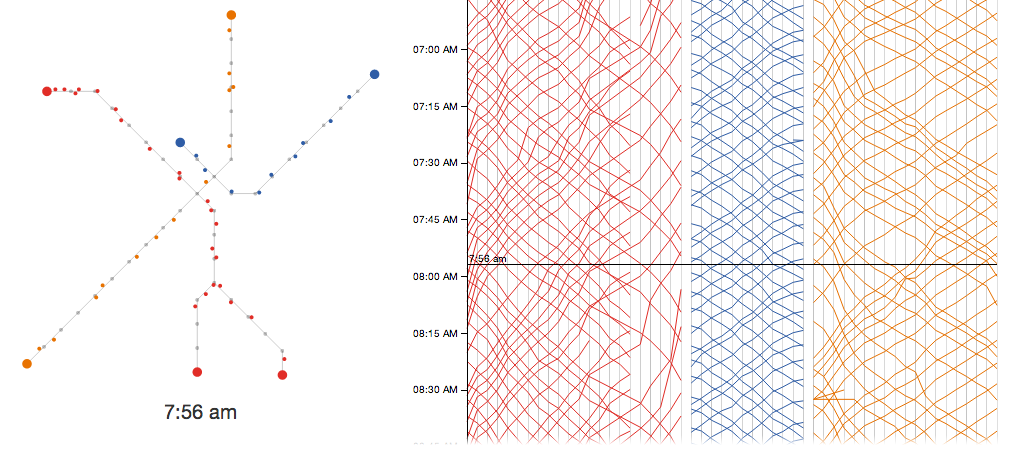
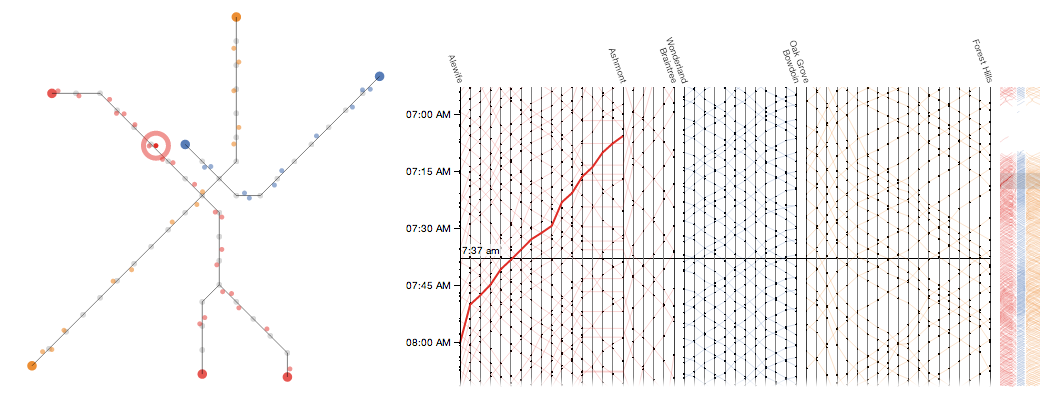
Built trains-over-time from commit 8974e43 on branch master

diff --git a/marey.js b/marey.js
@@ -19,6 +19,7 @@ window.drawMarey = function (stationNetwork, trips) {
       .attr('height', outerHeight)
     .append('g')
       .attr('transform', 'translate(' + margin.left + ', ' + margin.top + ')');
+  var svgBackground = svg.append("g");
   var tinySvg = d3.select('#tinymarey').append('svg')
       .attr('class', 'tiny')
       .attr('width', tinyOuterWidth)
@@ -69,10 +70,11 @@ window.drawMarey = function (stationNetwork, trips) {
     stationXScaleInvert[header[key][0]] = key;
   });
 
-  var stationLabels = headerSvg.selectAll('.station')
+  var stationLabels = headerSvg.selectAll('.station-label')
       .data(nodesPerLine)
       .enter()
     .append('text')
+      .attr('class', 'station-label')
       .style('display', function (d) { return end[d] ? null : 'none'; })
       .attr('transform', function (d) { return 'translate(' + (stationXScale(d) - 2) + ',' + (legendHeight - 3) + ')rotate(70)'; })
       .style('text-anchor', 'end')
@@ -155,27 +157,50 @@ window.drawMarey = function (stationNetwork, trips) {
     };
   }
 
+  window.highlightedTrip = null;
+  window.hoveredTrip = null;
+
+  window.highlightTrain = function (d) {
+    highlightedTrip = d.trip;
+    highlight();
+    d3.event.stopPropagation();
+  };
+
+  window.unHoverTrain = function () {
+    hoveredTrip = null;
+    hover();
+  };
+  window.hoverTrain = function (d) {
+    hoveredTrip = d.trip;
+    hover();
+  };
+
   svg.selectAll('.mareyline')
       .data(trips)
       .enter()
     .append('path')
-      .attr('class', function (d) { return 'mareyline ' + d.line; })
-      .attr('d', draw(xScale, yScale));
+      .attr('class', function (d) { return 'mareyline hoverable highlightable dimmable ' + d.line; })
+      .attr('d', draw(xScale, yScale))
+      .on('click', window.highlightTrain)
+      .on('mouseover', window.hoverTrain)
+      .on('mouseout', window.unHoverTrain);
+
+  d3.select('body').on('click.highlightoff', function () { highlightedTrip = null; highlight(); });
 
   tinySvg.selectAll('.mareyline')
       .data(trips)
       .enter()
     .append('path')
-      .attr('class', function (d) { return 'mareyline ' + d.line; })
+      .attr('class', function (d) { return 'mareyline highlightable ' + d.line; })
       .attr('d', draw(tinyxScale, tinyyScale));
 
   d3.select("#marey").on('mousemove', selectTime);
-  d3.select("#marey").on('mouesover', selectTime);
   d3.select("#marey").on('scroll', setScrollBox);
   d3.select("#marey").on('mousemove.titles', updateTitle);
   d3.select("#tinymarey").on('click', setScroll);
-  var bar = svg.append('g');
-  bar.append('line')
+  var barBackground = svgBackground.append('g').attr('class', 'g-bar');
+  var barForeground = svg.append('g').attr('class', 'g-bar');
+  barBackground.append('line')
       .attr('class', 'bar')
       .attr('x1', 1)
       .attr('x2', width)
@@ -188,18 +213,51 @@ window.drawMarey = function (stationNetwork, trips) {
       .attr('x2', width)
       .attr('y1', 0)
       .attr('y2', 0);
-  var timeDisplay = bar.append('text')
+  barForeground.append('rect')
+    .attr('class', 'text-background')
+    .attr('x', 3)
+    .attr('y', -14)
+    .attr('width', 45)
+    .attr('height', 12);
+  var timeDisplay = barForeground.append('text')
     .attr('dx', 2)
-    .attr('dy', -2);
+    .attr('dy', -4);
+  var bar = d3.selectAll("g.g-bar");
+
+  function hover() {
+    d3.selectAll('.hoverable')
+      .classed('hover', function (d) { return d.trip === hoveredTrip; });
+  }
+
+  function highlight() {
+    d3.select('body').classed('highlight-active', !!highlightedTrip);
+    d3.selectAll('.highlightable')
+      .classed('active', function (d) { return d.trip === highlightedTrip; });
+  }
+
+  window.highlightMareyTitle = function (title, lines) {
+    var titles = {};
+    titles[title] = true;
+    if (lines) {
+      lines.forEach(function (line) { titles[title + "|" + line] = true; });
+    } else if (title) {
+      titles[title] = true;
+      titles[title.replace(/\|.*/, '')] = true;
+    }
+    stationLabels.style('display', function (d) {
+      var display = end[d] || titles[d];
+      return display ? null : 'none';
+    });
+    d3.selectAll('text.station-label').classed('active', function (d) {
+      return titles[d.id ? d.id : d];
+    });
+  };
 
   function updateTitle() {
     var pos = d3.mouse(svg.node());
     var x = pos[0];
     var station = stationXScaleInvert[Math.round(xScale.invert(x))];
-    stationLabels.style('display', function (d) {
-      var display = end[d] || d === station;
-      return display ? null : 'none';
-    });
+    window.highlightMareyTitle(station);
   }
 
   function selectTime() {
@@ -239,6 +297,7 @@ window.drawMarey = function (stationNetwork, trips) {
     var y = pos[1];
     var scrollPos = Math.max(scrollToTinyScale.invert(y) - tinyOuterHeight / 2, 0);
     d3.select("#marey").node().scrollTop = scrollPos;
+    d3.event.stopPropagation();
   }
 
   select(minUnixSeconds);

diff --git a/main.js b/main.js
@@ -2,7 +2,7 @@
   "use strict";
   var margin = {top: 10, right: 10, bottom: 10, left: 10},
       delay = 100,
-      radius = 2,
+      radius = 2.5,
       cache = {},
       idToLine = {},
       crowd = {},
@@ -66,12 +66,25 @@
         .data(inputData.nodes)
         .enter()
       .append('circle')
-        .attr('class', function (d) { return 'station'; })
+        .attr('class', function (d) { return 'station middle station-label ' + d.id; })
         .attr('cx', function (d) { return d.pos[0]; })
         .attr('cy', function (d) { return d.pos[1]; })
-        .attr('r', 2)
-        .on('mouseover', tip.show)
-        .on('mouseout', tip.hide);
+        .attr('r', 3)
+        .on('mouseover', function (d) {
+          if (d.pos[1] < 30) {
+            tip.direction('e')
+              .offset([0, 10]);
+          } else {
+            tip.direction('n')
+              .offset([-10, 0]);
+          }
+          tip.show(d);
+          window.highlightMareyTitle(d.id, _.unique(d.links.map(function (link) { return link.line; })));
+        })
+        .on('mouseout', function (d) {
+          tip.hide(d);
+          window.highlightMareyTitle(null);
+        });
 
     svg.selectAll('.connect')
         .data(inputData.links)
@@ -85,12 +98,11 @@
 
     // line color circles
     function dot(id, clazz) {
-      svg.append('circle')
-        .attr('cx', scale * spider[id][0])
-        .attr('cy', scale * spider[id][1])
-        .attr('class', clazz)
-        .attr('r', endDotRadius)
-        .attr('stroke', "none");
+      svg.selectAll('circle.' + id)
+        .classed(clazz, true)
+        .classed('end', true)
+        .classed('middle', false)
+        .attr('r', endDotRadius);
     }
     dot('place-asmnl', "red");
     dot('place-alfcl', "red");
@@ -125,10 +137,8 @@
       //   ...
       // ]
 
-      // animate train positions
-      var time = moment('2014-02-03 05:00 am -0500', 'YYYY-MM-DD hh:mm a ZZ');
-
-      function place(from, to, ratio) {
+      // show train positions
+      function placeWithOffset(from, to, ratio) {
         var fromPos = idToNode[from.stop].pos;
         var toPos = idToNode[to.stop].pos;
         var midpoint = d3.interpolate(fromPos, toPos)(ratio);
@@ -150,18 +160,23 @@
           var from = d.stops[i];
           var to = d.stops[i + 1];
           var ratio = (unixSeconds - from.time) / (to.time - from.time);
-          return {id: d.trip, pos: place(from, to, ratio), line: d.line};
+          return {trip: d.trip, pos: placeWithOffset(from, to, ratio), line: d.line};
         });
 
-        var trains = svg.selectAll('.train').data(positions, function (d) { return d.id; });
+        var trains = svg.selectAll('.train').data(positions, function (d) { return d.trip; });
         trains//.transition().duration(delay).ease('linear')
             .attr('cx', function (d) { return d.pos[0]; })
             .attr('cy', function (d) { return d.pos[1]; });
         trains.enter().append('circle')
-            .attr('class', function (d) { return 'train ' + d.line; })
+            .attr('class', function (d) { return 'train highlightable hoverable dimmable ' + d.line; })
+            .classed('active', function (d) { return d.trip === window.highlightedTrip; })
+            .classed('hover', function (d) { return d.trip === window.hoveredTrip; })
             .attr('r', radius)
             .attr('cx', function (d) { return d.pos[0]; })
-            .attr('cy', function (d) { return d.pos[1]; });
+            .attr('cy', function (d) { return d.pos[1]; })
+            .on('click', function (d) { window.highlightTrain(d); })
+            .on('mouseover', window.hoverTrain)
+            .on('mouseout', window.unHoverTrain);
         trains.exit().remove();
         timeDisplay.text(moment(unixSeconds * 1000).format('h:mm a'));
       }

diff --git a/main.css b/main.css
@@ -45,6 +45,12 @@ svg {
 #mareylegend text {
   font-size: 9px;
 }
+.station-label {
+  opacity: 0.7;
+}
+text.station-label.active {
+  opacity: 1;
+}
 #marey {
   height: 300px;
   overflow: scroll;
@@ -84,9 +90,12 @@ svg {
   stroke-width: 0.5;
   stroke: black;
 }
-.station {
+circle.station.middle {
   fill: gray;
-  opacity: 0.5;
+  opacity: 0.3;
+}
+circle.station.end {
+  opacity: 0.8;
 }
 line.station {
   stroke-width: 1px;
@@ -117,12 +126,15 @@ line.station.place-ogmnl-orange {
 }
 .blue {
   fill: #2F5DA6;
+  stroke: #2F5DA6;
 }
 .red {
   fill: #E12D27;
+  stroke: #E12D27;
 }
 .orange {
   fill: #E87200;
+  stroke: #E87200;
 }
 path.blue {
   stroke: #2F5DA6;
@@ -147,6 +159,39 @@ path.orange {
   fill: gray;
   opacity: 0.2;
 }
+.text-background {
+  fill: white;
+  fill-opacity: 0.7;
+}
+#marey path.hover,
+#marey path.active {
+  stroke-width: 2px;
+}
+circle.hoverable {
+  stroke-opacity: 0;
+}
+circle.hover {
+  stroke-width: 25px;
+  stroke-opacity: 0.5;
+}
+.highlight-active circle {
+  stroke-opacity: 0;
+}
+.highlight-active circle.active {
+  stroke-width: 25px;
+  stroke-opacity: 0.5;
+}
+.highlight-active path.dimmable {
+  opacity: 0.2;
+}
+.highlight-active circle.dimmable {
+  opacity: 0.5;
+}
+.highlight-active .highlightable.active {
+  opacity: 1;
+}
+
+
 a {
   text-decoration: none;
 }
@@ -163,6 +208,7 @@ a {
   border-radius: 2px;
   pointer-events: none;
   font-size: 10px;
+  text-align: left;
 }
 
 /* Creates a small triangle extender for the tooltip */
@@ -189,9 +235,9 @@ a {
 /* Eastward tooltips */
 .d3-tip.e:after {
   content: "\25C0";
-  margin: -4px 0 0 0;
+  margin: -6px 0 0 0;
   top: 50%;
-  left: -8px;
+  left: -12px;
 }
 
 /* Southward tooltips */

diff --git a/index.html b/index.html
@@ -15,7 +15,7 @@
     <meta name="twitter:image:src" content="http://mbtaviz.github.io/trains-over-time/preview.png">
 
     <meta name="signet:authors" content="Michael Barry, Brian Card">
-    <meta name="signet:links" content="http://github.com/mbtaviz, http://github.com/msbarry, http://twitter.com/msb5014">
+    <meta name="signet:links" content="http://github.com/mbtaviz/trains-over-time, http://github.com/msbarry, http://twitter.com/msb5014">
   
     <link type="text/css" rel="stylesheet" href="main.css"/>
     <title>Boston Subway Marey Diagram</title>
@@ -40,7 +40,7 @@
       a single point in time.  The right plot shows each station as a vertical line, with time going
       from top to bottom.  Each horizontal slice shows where each train is at that point in time.
       Slower trains have steeper lines.  Hover over the right plot to show the train locations
-      at that point in time.
+      at that point in time.  Click on a train's line or dot to focus on just that train.
     </p>
     <script type="text/javascript" src="marey.js"></script>
     <script type="text/javascript" src="spider.js"></script>
